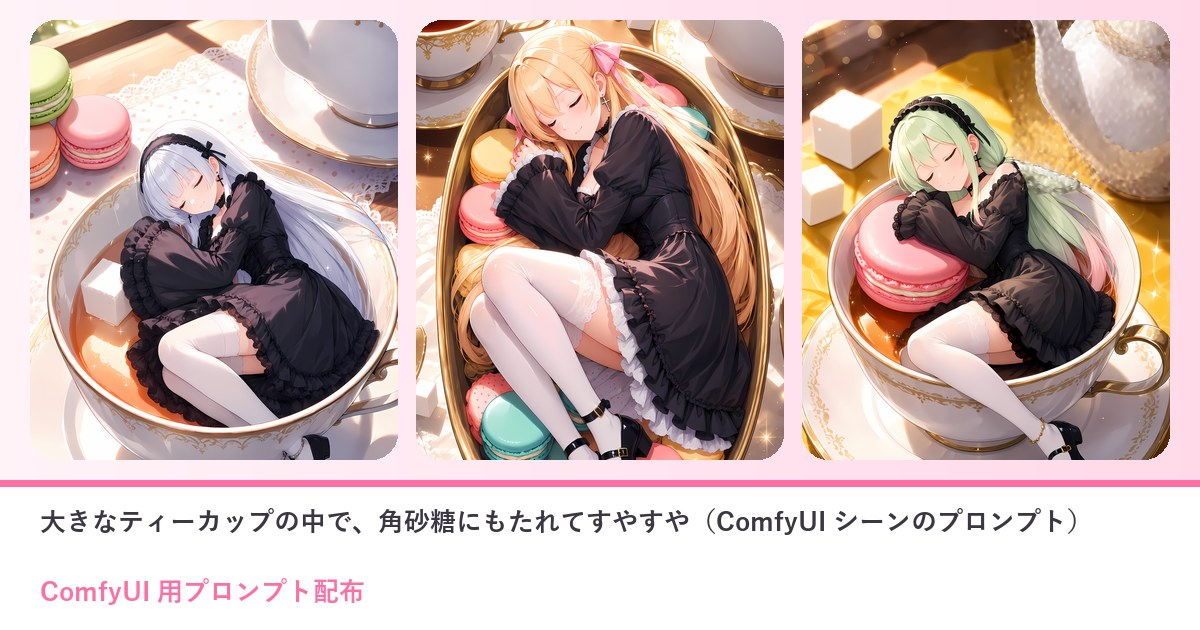
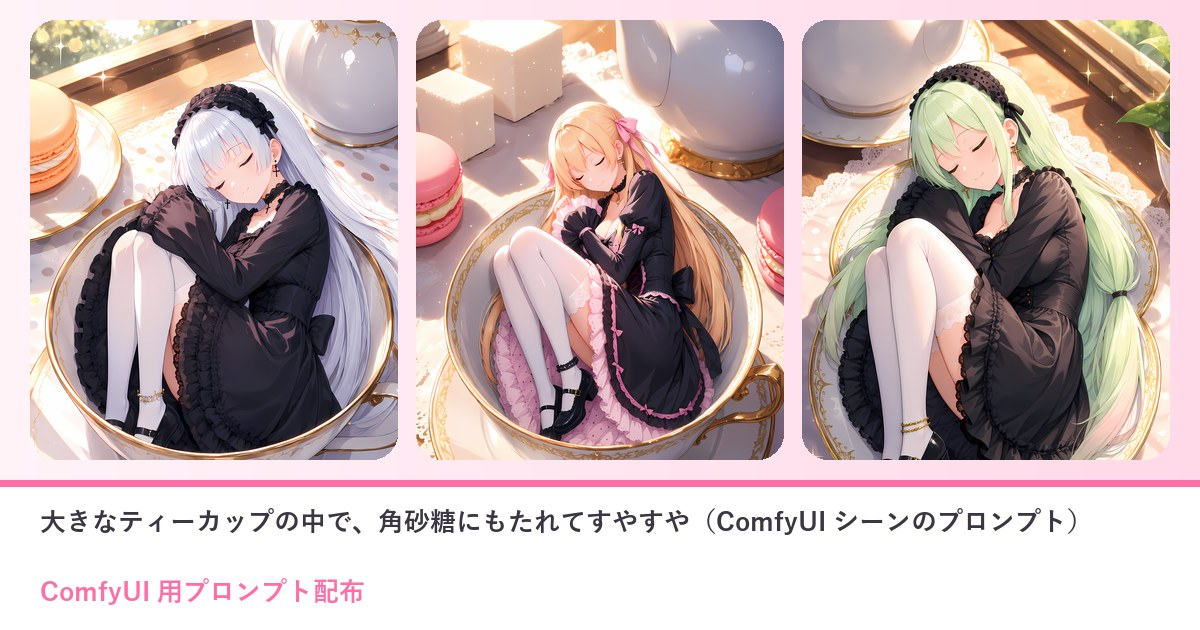
配布 10/19 眠り姫 ティーカップ：作例3人を焼き直し（足が器の外・カップの液体）・プロンプトに膝を抱える語と液体の NEG・文を絵に合わせる

diff --git a/prompts/2026-10-19-comfy-ppphnill.html b/prompts/2026-10-19-comfy-ppphnill.html
@@ -4,16 +4,16 @@
 <meta charset="UTF-8"><meta name="robots" content="noindex, nofollow, noarchive"><meta name="referrer" content="strict-origin">
 <meta name="viewport" content="width=device-width, initial-scale=1">
 <title>大きなティーカップの中で、角砂糖にもたれてすやすや（ComfyUI シーンのプロンプト）｜ひみつの眠り姫</title>
-<meta name="description" content="ComfyUI（Anima）に貼るだけで、ちいさな女の子のお茶会の一枚に。木もれ日のさすテーブルの上、大きなティーカップの中で、黒いフリルのゴシックロリータの女の子が横向きに丸くなって、角砂糖やマカロンにもたれてすやすや">
+<meta name="description" content="ComfyUI（Anima）に貼るだけで、ちいさな女の子のお茶会の一枚に。木もれ日のさすテーブルの上、からっぽの大きなティーカップの中で、黒いフリルのゴシックロリータの女の子が膝を抱えて丸くなり、すやすや眠っています。そ">
 <meta property="og:title" content="大きなティーカップの中で、角砂糖にもたれてすやすや（ComfyUI シーンのプロンプト）｜ひみつの眠り姫">
-<meta property="og:description" content="ComfyUI（Anima）に貼るだけで、ちいさな女の子のお茶会の一枚に。木もれ日のさすテーブルの上、大きなティーカップの中で、黒いフリルのゴシックロリータの女の子が横向きに丸くなって、角砂糖やマカロンにもたれてすやすや">
+<meta property="og:description" content="ComfyUI（Anima）に貼るだけで、ちいさな女の子のお茶会の一枚に。木もれ日のさすテーブルの上、からっぽの大きなティーカップの中で、黒いフリルのゴシックロリータの女の子が膝を抱えて丸くなり、すやすや眠っています。そ">
 <meta property="og:type" content="article">
 <meta property="og:url" content="https://himitsu-nemurihime.github.io/prompts/2026-10-19-comfy-ppphnill.html">
 <meta property="og:image" content="https://himitsu-nemurihime.github.io/prompts/img/2026-10-19-comfy-ppphnill/og.jpg">
 <meta property="og:image:width" content="1200"><meta property="og:image:height" content="630">
 <meta name="twitter:card" content="summary_large_image">
 <meta name="twitter:title" content="大きなティーカップの中で、角砂糖にもたれてすやすや（ComfyUI シーンのプロンプト）｜ひみつの眠り姫">
-<meta name="twitter:description" content="ComfyUI（Anima）に貼るだけで、ちいさな女の子のお茶会の一枚に。木もれ日のさすテーブルの上、大きなティーカップの中で、黒いフリルのゴシックロリータの女の子が横向きに丸くなって、角砂糖やマカロンにもたれてすやすや">
+<meta name="twitter:description" content="ComfyUI（Anima）に貼るだけで、ちいさな女の子のお茶会の一枚に。木もれ日のさすテーブルの上、からっぽの大きなティーカップの中で、黒いフリルのゴシックロリータの女の子が膝を抱えて丸くなり、すやすや眠っています。そ">
 <meta name="twitter:image" content="https://himitsu-nemurihime.github.io/prompts/img/2026-10-19-comfy-ppphnill/og.jpg">
 <meta name="theme-color" content="#FFF3F8">
 <link rel="preconnect" href="https://fonts.googleapis.com">
@@ -74,11 +74,11 @@
 <div class="sky"></div>
 <main class="wrap">
 <section class="sec"><div class="sec-head"><h2>大きなティーカップの中で、角砂糖にもたれてすやすや（ComfyUI シーンのプロンプト）</h2><p>ひみつの眠り姫のプロンプト配布</p></div>
-<div class="ps"><p><span class="ps-badge">ComfyUI 用</span><span class="ps-badge">2026-10-19</span></p><p class="ps-lead">ComfyUI（Anima）に貼るだけで、ちいさな女の子のお茶会の一枚に。木もれ日のさすテーブルの上、大きなティーカップの中で、黒いフリルのゴシックロリータの女の子が横向きに丸くなって、角砂糖やマカロンにもたれてすやすや眠っています。そばにはティーポットとマカロン。LoRA がない方は、いちばん上の行の髪の色と髪型を書き換えると、あなたの子に近づきます。</p><nav class="ps-toc" aria-label="目次"><p>📑 目次</p><ol><li><a href="#sec1">作例</a></li><li><a href="#sec2">3人のおしゃべり（ちいさくなってお茶会の器でおひるね）</a></li><li><a href="#sec3">使い方（3ステップ）</a></li><li><a href="#sec4">プロンプト</a></li><li><a href="#sec5">必要なもの（ComfyUI）</a></li><li><a href="#sec6">メモ</a></li><li><a href="#sec7">配布ルール</a></li></ol></nav><h2 id="sec1">作例</h2><div class="ps-ex"><figure><img src="img/2026-10-19-comfy-ppphnill/ex1.webp" alt="リリアの LoRA で焼いた作例（B のプロンプト）。白いレースのテーブルの上、紅茶の残るティーカップの中で、角砂糖のそばに丸くなってすやすや。黒いヘッドドレスと白いタイツ" loading="lazy"><figcaption>リリアの LoRA で焼いた作例（B のプロンプト）。白いレースのテーブルの上、紅茶の残るティーカップの中で、角砂糖のそばに丸くなってすやすや。黒いヘッドドレスと白いタイツ</figcaption></figure><figure><img src="img/2026-10-19-comfy-ppphnill/ex2.webp" alt="同じプロンプトをセフィリアの LoRA で。ティーカップではなく、マカロンを並べた楕円のお皿の中で、ピンクのリボンのまま丸くなっています（器は seed でお皿になることがあります）" loading="lazy"><figcaption>同じプロンプトをセフィリアの LoRA で。ティーカップではなく、マカロンを並べた楕円のお皿の中で、ピンクのリボンのまま丸くなっています（器は seed でお皿になることがあります）</figcaption></figure><figure><img src="img/2026-10-19-comfy-ppphnill/ex3.webp" alt="同じプロンプトをティルナの LoRA で。黄色いテーブルクロスの上のティーカップで、ピンクのマカロンを枕にしてにっこり眠っています" loading="lazy"><figcaption>同じプロンプトをティルナの LoRA で。黄色いテーブルクロスの上のティーカップで、ピンクのマカロンを枕にしてにっこり眠っています</figcaption></figure></div><p style="font-size:.82rem;color:var(--ps-ink)">※作例の画像の転載・保存しての再配布はご遠慮ください。</p><h2 id="sec2">3人のおしゃべり（ちいさくなってお茶会の器でおひるね）</h2><div class="ps-chat"><img src="img/2026-10-19-comfy-ppphnill/talk_tiru_surprised.webp" alt="ティルナ" loading="lazy"><div><div class="who">ティルナ</div><div class="bub">ふぁ……おはよ。あれ？ わたし、ちっちゃくなって、ティーカップの中で寝てた！</div></div></div><div class="ps-chat r"><img src="img/2026-10-19-comfy-ppphnill/talk_lilia_shy.webp" alt="リリア" loading="lazy"><div><div class="who">リリア</div><div class="bub">わたしもです。紅茶がまだ少しあたたかくて、角砂糖にもたれていたら、つい</div></div></div><div class="ps-chat r"><img src="img/2026-10-19-comfy-ppphnill/talk_sefi_sad.webp" alt="セフィリア" loading="lazy"><div><div class="who">セフィリア</div><div class="bub">おふたりとも、ずるいです。わたくしだけ、マカロンを並べたお皿の上でした</div></div></div><div class="ps-chat"><img src="img/2026-10-19-comfy-ppphnill/talk_tiru_happy.webp" alt="ティルナ" loading="lazy"><div><div class="who">ティルナ</div><div class="bub">えー、マカロンのベッドのほうがふかふかでいいじゃん。わたしはピンクのマカロンを枕にしてたよ</div></div></div><div class="ps-chat r"><img src="img/2026-10-19-comfy-ppphnill/talk_lilia_happy.webp" alt="リリア" loading="lazy"><div><div class="who">リリア</div><div class="bub">ふふ。今日の配布は、ちょうどこの夢です。大きなティーカップの中で、黒いドレスの女の子がすやすや眠る一枚</div></div></div><div class="ps-chat r"><img src="img/2026-10-19-comfy-ppphnill/talk_sefi_smug.webp" alt="セフィリア" loading="lazy"><div><div class="who">セフィリア</div><div class="bub">黒いフリルのドレスに白いタイツ、黒いストラップの靴。ちいさくなっても、身だしなみは完璧です</div></div></div><div class="ps-chat"><img src="img/2026-10-19-comfy-ppphnill/talk_tiru_laugh.webp" alt="ティルナ" loading="lazy"><div><div class="who">ティルナ</div><div class="bub">わたしのは黄色いテーブルクロスで、リリアのは白いレース。セフィーのはお皿いっぱいのマカロン！</div></div></div><div class="ps-chat r"><img src="img/2026-10-19-comfy-ppphnill/talk_lilia_thinking.webp" alt="リリア" loading="lazy"><div><div class="who">リリア</div><div class="bub">LoRA がない方は、いちばん上の行の髪と瞳の色を、あなたの子に合わせてくださいね</div></div></div><div class="ps-chat r"><img src="img/2026-10-19-comfy-ppphnill/talk_sefi_normal.webp" alt="セフィリア" loading="lazy"><div><div class="who">セフィリア</div><div class="bub">器はたいていティーカップですが、わたくしのようにお皿になることもあります。そのときは seed を変えてみてください</div></div></div><div class="ps-chat"><img src="img/2026-10-19-comfy-ppphnill/talk_tiru_wink.webp" alt="ティルナ" loading="lazy"><div><div class="who">ティルナ</div><div class="bub">手は袖の中に隠れるから、崩れにくいよ。寝顔はみんな、にっこりになるの</div></div></div><div class="ps-chat r"><img src="img/2026-10-19-comfy-ppphnill/talk_lilia_normal.webp" alt="リリア" loading="lazy"><div><div class="who">リリア</div><div class="bub">角砂糖や紅茶の量は、焼くたびに少しずつ変わります。いちばん甘そうな一枚を選ぶのも楽しいですよ</div></div></div><div class="ps-chat r"><img src="img/2026-10-19-comfy-ppphnill/talk_sefi_shy.webp" alt="セフィリア" loading="lazy"><div><div class="who">セフィリア</div><div class="bub">……わたくし、次はティーカップで寝てみたいです。リリア、少し詰めてくださいませ</div></div></div><div class="ps-chat"><img src="img/2026-10-19-comfy-ppphnill/talk_tiru_laugh.webp" alt="ティルナ" loading="lazy"><div><div class="who">ティルナ</div><div class="bub">じゃあ三人でひとつのカップ！ 紅茶があふれちゃうよー</div></div></div><div class="ps-chat r"><img src="img/2026-10-19-comfy-ppphnill/talk_lilia_happy.webp" alt="リリア" loading="lazy"><div><div class="who">リリア</div><div class="bub">では、角砂糖をもうひとつ入れて……おやすみなさい。甘い夢を</div></div></div><h2 id="sec3">使い方（3ステップ）</h2><ol class="ps-steps"><li>ComfyUI で Anima のモデルを読み、基本の画像生成（テキストから画像）の画面にする</li><li>下の A（LoRA なし）か B（LoRA あり）のポジティブと、ネガティブをワンタップでコピーして貼る</li><li>「推奨値」の大きさ・steps・CFG にして生成する（できれば 1.5 倍の hires fix も）</li></ol><h2 id="sec4">プロンプト</h2><div class="ps-note" style="margin-bottom:12px"><b>変えるのは1行目の色の付いたところだけ</b>（先頭の <code>1girl, solo</code> などはそのまま）<ul><li>使うプロンプトは2通り＝<b>A. LoRA を持っていない人</b>／<b>B. 自分のキャラの LoRA を持っている人</b>。どちらも丸ごとコピーして貼るだけ</li><li>A は<b>そのまま</b>でも綺麗な女の子で出ます。自分のキャラにするなら1行目の髪の色・髪型・目の色を書き換えるだけ</li><li>B は1行目の <code>your_lora_trigger</code> を自分の LoRA のトリガー語に置きかえるだけ（LoRA の強さは下の表）</li><li>2行目から下（シーン）と、ネガティブプロンプトは変えずにそのまま</li><li>🚫 版権キャラの名前・版権キャラの LoRA を入れて使うのは固く禁止です（下の「配布ルール」）</li></ul></div><h3 style="margin:14px 0 8px">A. LoRA を持っていない人（そのままでもOK）</h3><div class="ps-box"><button class="ps-copy" type="button" data-target="ps-prompt">📋 ワンタップでコピー</button><p style="margin:0 0 8px;font-size:.82rem;color:var(--ps-a)">ポジティブプロンプト</p><pre>1girl, solo, <mark class="ps-in" data-key="キャラの行">very long hair, white hair, blunt bangs, purple eyes</mark>
-masterpiece, best quality, score_7, safe, full body, from above, sleeping, closed eyes, smile, lying on side, in container, teacup, saucer, sugar cube, teapot, macaron, table, tablecloth, indoors, day, clear sky, sunlight, light particles, warm colors, depth of field, bokeh, minigirl, gothic lolita, black dress, frilled dress, long skirt, collar, polka dot, long sleeves, sleeves past fingers, lace trim, satin, hairband, cross earrings, choker, white thighhighs, thighhighs, anklet, mary janes, sparkle</pre><textarea class="ps-copyarea" id="ps-prompt" readonly aria-hidden="true" tabindex="-1">1girl, solo, very long hair, white hair, blunt bangs, purple eyes
-masterpiece, best quality, score_7, safe, full body, from above, sleeping, closed eyes, smile, lying on side, in container, teacup, saucer, sugar cube, teapot, macaron, table, tablecloth, indoors, day, clear sky, sunlight, light particles, warm colors, depth of field, bokeh, minigirl, gothic lolita, black dress, frilled dress, long skirt, collar, polka dot, long sleeves, sleeves past fingers, lace trim, satin, hairband, cross earrings, choker, white thighhighs, thighhighs, anklet, mary janes, sparkle</textarea></div><h3 style="margin:18px 0 8px">B. 自分のキャラの LoRA を持っている人</h3><div class="ps-box"><button class="ps-copy" type="button" data-target="ps-prompt-lora">📋 ワンタップでコピー</button><p style="margin:0 0 8px;font-size:.82rem;color:var(--ps-a)">ポジティブプロンプト（LoRA 用）</p><pre>masterpiece, best quality, score_7, year 2025, highres, absurdres, <mark class="ps-in" data-key="キャラの行">your_lora_trigger</mark>, 1girl, solo,
-full body, from above, sleeping, closed eyes, smile, lying on side, in container, teacup, saucer, sugar cube, teapot, macaron, table, tablecloth, indoors, day, clear sky, sunlight, light particles, warm colors, depth of field, bokeh, minigirl, gothic lolita, black dress, frilled dress, long skirt, collar, polka dot, long sleeves, sleeves past fingers, lace trim, satin, hairband, cross earrings, choker, white thighhighs, thighhighs, anklet, mary janes, sparkle</pre><textarea class="ps-copyarea" id="ps-prompt-lora" readonly aria-hidden="true" tabindex="-1">masterpiece, best quality, score_7, year 2025, highres, absurdres, your_lora_trigger, 1girl, solo,
-full body, from above, sleeping, closed eyes, smile, lying on side, in container, teacup, saucer, sugar cube, teapot, macaron, table, tablecloth, indoors, day, clear sky, sunlight, light particles, warm colors, depth of field, bokeh, minigirl, gothic lolita, black dress, frilled dress, long skirt, collar, polka dot, long sleeves, sleeves past fingers, lace trim, satin, hairband, cross earrings, choker, white thighhighs, thighhighs, anklet, mary janes, sparkle</textarea></div><table class="ps-vars" style="margin-top:10px"><tr><th>LoRA のつなぎ方</th><td colspan="2">Load Diffusion Model（Anima）のうしろに LoraLoaderModelOnly を1つ足す（CLIP にはつながない）</td></tr><tr><th>LoRA の強さ（strength_model）</th><td colspan="2">0.8〜0.9（作例は 0.85）</td></tr><tr><th>1行目</th><td colspan="2">your_lora_trigger を自分の LoRA のトリガー語に置きかえる（髪や目の色は LoRA が覚えているので書かなくてOK）</td></tr></table><div style="height:12px"></div><div class="ps-box"><button class="ps-copy" type="button" data-target="ps-negative-lora">📋 ワンタップでコピー</button><p style="margin:0 0 8px;font-size:.82rem;color:var(--ps-a)">ネガティブプロンプト（B 用）</p><pre>lowres, bad quality, worst quality, score_1, score_2, score_3, poorly drawn, flat color, sketch, jpeg artifacts, mutated, ugly, disfigured, long body, bad anatomy, bad hands, missing fingers, extra fingers, simple background, transparent background, blurry, furry, child, loli, chibi, baby face, signature, watermark, artist name, username, web address, patreon username, logo, detailed pupils, sparkling eyes, twinkling eyes, glowing pupils, glowing eyes, star-shaped pupils, colored highlight in pupil, blonde hair, pink hair, cat ears, animal ears, red eyes, tall, long legs, wide hips, thick thighs, curvy, voluptuous, amazonian, statuesque, 8 heads tall, elongated body, extra fingers, missing fingers, fused fingers, bad hands, deformed hands, japanese text, chinese text, korean text, kanji, hiragana, katakana, calligraphy</pre><textarea class="ps-copyarea" id="ps-negative-lora" readonly aria-hidden="true" tabindex="-1">lowres, bad quality, worst quality, score_1, score_2, score_3, poorly drawn, flat color, sketch, jpeg artifacts, mutated, ugly, disfigured, long body, bad anatomy, bad hands, missing fingers, extra fingers, simple background, transparent background, blurry, furry, child, loli, chibi, baby face, signature, watermark, artist name, username, web address, patreon username, logo, detailed pupils, sparkling eyes, twinkling eyes, glowing pupils, glowing eyes, star-shaped pupils, colored highlight in pupil, blonde hair, pink hair, cat ears, animal ears, red eyes, tall, long legs, wide hips, thick thighs, curvy, voluptuous, amazonian, statuesque, 8 heads tall, elongated body, extra fingers, missing fingers, fused fingers, bad hands, deformed hands, japanese text, chinese text, korean text, kanji, hiragana, katakana, calligraphy</textarea></div><div class="ps-note" style="margin-top:10px"><b>作例の絵（ポストの絵）は、この B のポジティブとネガティブで作りました</b>（<code>your_lora_trigger</code> のところに、その子の LoRA のトリガー語と見た目の語を入れただけ・語の順番もこのまま）。そのあと手だけを描き直す仕上げと 4K への拡大をしています。<br>ネガティブの「blonde hair、pink hair、cat ears、animal ears、red eyes、tall、long legs、wide hips、thick thighs、curvy、voluptuous、amazonian、statuesque、8 heads tall、elongated body」は作例の子のために足した語です。自分のキャラに合わなければ消してOK。</div><div style="height:12px"></div><div class="ps-box"><button class="ps-copy" type="button" data-target="ps-negative">📋 ワンタップでコピー</button><p style="margin:0 0 8px;font-size:.82rem;color:var(--ps-a)">ネガティブプロンプト（A 用）</p><pre>worst quality, low quality, lowres, bad anatomy, bad hands, extra fingers, missing fingers, fused fingers, blurry, jpeg artifacts, text, watermark, signature, logo, extra person, multiple girls, cropped, out of frame, extra fingers, missing fingers, fused fingers, bad hands, deformed hands, japanese text, chinese text, korean text, kanji, hiragana, katakana, calligraphy</pre><textarea class="ps-copyarea" id="ps-negative" readonly aria-hidden="true" tabindex="-1">worst quality, low quality, lowres, bad anatomy, bad hands, extra fingers, missing fingers, fused fingers, blurry, jpeg artifacts, text, watermark, signature, logo, extra person, multiple girls, cropped, out of frame, extra fingers, missing fingers, fused fingers, bad hands, deformed hands, japanese text, chinese text, korean text, kanji, hiragana, katakana, calligraphy</textarea></div><h2 id="sec5">必要なもの（ComfyUI）</h2><div class="ps-note">🧩 <b>カスタムノードは使っていません</b>。LoRA が無くても大丈夫（A のプロンプト）。ComfyUI の基本の画像生成（テキストから画像）に、ポジティブ・ネガティブを貼って、下の推奨値にするだけです。LoRA を使う人は「LoraLoaderModelOnly」を1つ足すだけ（B のプロンプト）。</div><table class="ps-vars" style="margin-top:12px"><tr><th>モデル</th><th>ファイル</th><th>置き場</th></tr><tr><td>Anima 系のモデル（本体）</td><td>お好きな Anima 系のモデル</td><td><code>models/diffusion_models</code></td></tr><tr><td>テキストエンコーダ</td><td>Anima と一緒に配られているもの</td><td><code>models/text_encoders</code></td></tr><tr><td>VAE</td><td>Anima と一緒に配られているもの</td><td><code>models/vae</code></td></tr></table><h2>推奨値</h2><table class="ps-vars"><tr><th>大きさ</th><td colspan="2">864×1536（864×1536（縦長））</td></tr><tr><th>steps</th><td colspan="2">30</td></tr><tr><th>CFG</th><td colspan="2">4.5</td></tr><tr><th>sampler</th><td colspan="2">er_sde</td></tr><tr><th>scheduler</th><td colspan="2">beta</td></tr><tr><th>hires fix（任意）</th><td colspan="2">1.5 倍に拡大して denoise 0.4・同じ steps と CFG（試し焼きはこれ）</td></tr><tr><th>LoRA</th><td colspan="2">無くてOK（A のプロンプト）。自分のキャラの LoRA があれば B のプロンプトで</td></tr></table><h2 id="sec6">メモ</h2><ul class="ps-rules"><li>いちばん上の行（髪の色・長さ・髪型・目の色）だけ、あなたの子に合わせて書き換えてください。2行目から下（服・器・光）は変えなくて大丈夫です。</li><li>縦長（864×1536）で、上から見下ろした全身の構図です。器の中で横向きに丸くなって眠る形になります。</li><li>器はたいていティーカップですが、seed によってはマカロンのお皿になることがあります。カップにしたいときは seed を変えてください。</li><li>手は長い袖に隠れる形です（手の崩れが出にくい）。枕になるのは角砂糖のときとマカロンのときがあります。</li><li>試し焼き（LoRA なし）でも、ティーカップ・紅茶・マカロン・ティーポット・黒いフリルのドレスがちゃんと入りました。髪はいちばん上の行どおりの色です。</li></ul><h2 id="sec7">配布ルール</h2><ul class="ps-rules"><li>⭕ プロンプトの改変は自由です。</li><li>⭕ 生成した画像は SNS に投稿して大丈夫です。</li><li>❌ プロンプト文そのものの転載・再配布・販売はしないでください。</li><li>❌ 自作のプロンプトだと名乗ることはやめてください。</li><li>❌ このページの作例画像の無断転載はしないでください。</li><li class="ps-rights">🚫 <b>アニメ・漫画・ゲームなどの版権キャラクター（著作権・商標のあるキャラ）、他の人のキャラクターやイラスト、実在の人物の写真を添付画像にして使うことは固く禁止します。</b>版権キャラの名前や、版権キャラの LoRA を入れて使うことも禁止です。</li><li>✅ 添付してよいのは、<b>自分で作ったキャラクター・自分が権利を持つ画像</b>（または権利者から使ってよいと言われた画像）だけです。</li><li>⚠ 生成した画像の使い方（投稿・公開など）は、使った人の責任でお願いします。権利の問題が起きても、配布者は責任を負えません。</li><li>💌 使ったら <b>#眠り姫プロンプト</b> を付けて見せてくれたら、とても嬉しいです（任意です）。</li></ul><p class="ps-bn-ask" style="margin:22px 0 0;font-size:.92rem">📚 これまでの配布プロンプト（バックナンバー）が見たい方は、直接ひみつの眠り姫までお気軽にお問い合わせください。</p></div>
+<div class="ps"><p><span class="ps-badge">ComfyUI 用</span><span class="ps-badge">2026-10-19</span></p><p class="ps-lead">ComfyUI（Anima）に貼るだけで、ちいさな女の子のお茶会の一枚に。木もれ日のさすテーブルの上、からっぽの大きなティーカップの中で、黒いフリルのゴシックロリータの女の子が膝を抱えて丸くなり、すやすや眠っています。そばには角砂糖とマカロン、ティーポット。LoRA がない方は、いちばん上の行の髪の色と髪型を書き換えると、あなたの子に近づきます。</p><nav class="ps-toc" aria-label="目次"><p>📑 目次</p><ol><li><a href="#sec1">作例</a></li><li><a href="#sec2">3人のおしゃべり（ちいさくなってお茶会の器でおひるね）</a></li><li><a href="#sec3">使い方（3ステップ）</a></li><li><a href="#sec4">プロンプト</a></li><li><a href="#sec5">必要なもの（ComfyUI）</a></li><li><a href="#sec6">メモ</a></li><li><a href="#sec7">配布ルール</a></li></ol></nav><h2 id="sec1">作例</h2><div class="ps-ex"><figure><img src="img/2026-10-19-comfy-ppphnill/ex1.webp" alt="リリアの LoRA で焼いた作例（B のプロンプト）。水玉のレースのテーブルの上、からっぽのティーカップの中で、膝を抱えて丸くなってすやすや。黒いヘッドドレスと白いタイツ、足首に金のアンクレット" loading="lazy"><figcaption>リリアの LoRA で焼いた作例（B のプロンプト）。水玉のレースのテーブルの上、からっぽのティーカップの中で、膝を抱えて丸くなってすやすや。黒いヘッドドレスと白いタイツ、足首に金のアンクレット</figcaption></figure><figure><img src="img/2026-10-19-comfy-ppphnill/ex2.webp" alt="同じプロンプトをセフィリアの LoRA で。からっぽのティーカップの中で、ピンクのフリルにくるまって丸くなり、ピンクのリボンのまますやすや" loading="lazy"><figcaption>同じプロンプトをセフィリアの LoRA で。からっぽのティーカップの中で、ピンクのフリルにくるまって丸くなり、ピンクのリボンのまますやすや</figcaption></figure><figure><img src="img/2026-10-19-comfy-ppphnill/ex3.webp" alt="同じプロンプトをティルナの LoRA で。ティーカップではなく金の縁のお皿の上で、ティーポットのそばに丸くなって眠っています（器は seed でお皿になることがあります）" loading="lazy"><figcaption>同じプロンプトをティルナの LoRA で。ティーカップではなく金の縁のお皿の上で、ティーポットのそばに丸くなって眠っています（器は seed でお皿になることがあります）</figcaption></figure></div><p style="font-size:.82rem;color:var(--ps-ink)">※作例の画像の転載・保存しての再配布はご遠慮ください。</p><h2 id="sec2">3人のおしゃべり（ちいさくなってお茶会の器でおひるね）</h2><div class="ps-chat"><img src="img/2026-10-19-comfy-ppphnill/talk_tiru_surprised.webp" alt="ティルナ" loading="lazy"><div><div class="who">ティルナ</div><div class="bub">ふぁ……おはよ。あれ？ わたし、ちっちゃくなって、ティーカップの……じゃなくて、お皿の上で寝てた！</div></div></div><div class="ps-chat r"><img src="img/2026-10-19-comfy-ppphnill/talk_lilia_shy.webp" alt="リリア" loading="lazy"><div><div class="who">リリア</div><div class="bub">わたしはカップの中でした。からっぽのカップがほんのりあたたかくて、膝を抱えて丸くなっていたら、つい</div></div></div><div class="ps-chat r"><img src="img/2026-10-19-comfy-ppphnill/talk_sefi_happy.webp" alt="セフィリア" loading="lazy"><div><div class="who">セフィリア</div><div class="bub">わたくしもカップです。ピンクのフリルがクッションになって、とても寝心地がよかったです</div></div></div><div class="ps-chat"><img src="img/2026-10-19-comfy-ppphnill/talk_tiru_happy.webp" alt="ティルナ" loading="lazy"><div><div class="who">ティルナ</div><div class="bub">えー、ふたりともずるい！ でもお皿も広くて、レースのクロスがふかふかだったよ</div></div></div><div class="ps-chat r"><img src="img/2026-10-19-comfy-ppphnill/talk_lilia_happy.webp" alt="リリア" loading="lazy"><div><div class="who">リリア</div><div class="bub">ふふ。今日の配布は、ちょうどこの夢です。大きなティーカップの中で、黒いドレスの女の子がすやすや眠る一枚</div></div></div><div class="ps-chat r"><img src="img/2026-10-19-comfy-ppphnill/talk_sefi_smug.webp" alt="セフィリア" loading="lazy"><div><div class="who">セフィリア</div><div class="bub">黒いフリルのドレスに白いタイツ、黒いストラップの靴。ちいさくなっても、身だしなみは完璧です</div></div></div><div class="ps-chat"><img src="img/2026-10-19-comfy-ppphnill/talk_tiru_laugh.webp" alt="ティルナ" loading="lazy"><div><div class="who">ティルナ</div><div class="bub">リリアのは水玉のクロス、セフィーのはピンクのマカロンに囲まれて、わたしのはティーポットのおとなり！</div></div></div><div class="ps-chat r"><img src="img/2026-10-19-comfy-ppphnill/talk_lilia_thinking.webp" alt="リリア" loading="lazy"><div><div class="who">リリア</div><div class="bub">LoRA がない方は、いちばん上の行の髪と瞳の色を、あなたの子に合わせてくださいね</div></div></div><div class="ps-chat r"><img src="img/2026-10-19-comfy-ppphnill/talk_sefi_normal.webp" alt="セフィリア" loading="lazy"><div><div class="who">セフィリア</div><div class="bub">器はたいていティーカップですが、ティルナのようにお皿になることもあります。そのときは seed を変えてみてください</div></div></div><div class="ps-chat"><img src="img/2026-10-19-comfy-ppphnill/talk_tiru_wink.webp" alt="ティルナ" loading="lazy"><div><div class="who">ティルナ</div><div class="bub">手は袖の中に隠れるから、崩れにくいよ。寝顔はみんな、にっこりになるの</div></div></div><div class="ps-chat r"><img src="img/2026-10-19-comfy-ppphnill/talk_lilia_normal.webp" alt="リリア" loading="lazy"><div><div class="who">リリア</div><div class="bub">角砂糖やマカロンの置き場所は、焼くたびに少しずつ変わります。いちばん甘そうな一枚を選ぶのも楽しいですよ</div></div></div><div class="ps-chat r"><img src="img/2026-10-19-comfy-ppphnill/talk_sefi_shy.webp" alt="セフィリア" loading="lazy"><div><div class="who">セフィリア</div><div class="bub">……ティルナ、次はわたくしのカップへどうぞ。少し詰めますから</div></div></div><div class="ps-chat"><img src="img/2026-10-19-comfy-ppphnill/talk_tiru_laugh.webp" alt="ティルナ" loading="lazy"><div><div class="who">ティルナ</div><div class="bub">じゃあ三人でひとつのカップ！ ぎゅうぎゅうでくっついて寝ちゃおー</div></div></div><div class="ps-chat r"><img src="img/2026-10-19-comfy-ppphnill/talk_lilia_happy.webp" alt="リリア" loading="lazy"><div><div class="who">リリア</div><div class="bub">では、角砂糖をもうひとつ枕にして……おやすみなさい。甘い夢を</div></div></div><h2 id="sec3">使い方（3ステップ）</h2><ol class="ps-steps"><li>ComfyUI で Anima のモデルを読み、基本の画像生成（テキストから画像）の画面にする</li><li>下の A（LoRA なし）か B（LoRA あり）のポジティブと、ネガティブをワンタップでコピーして貼る</li><li>「推奨値」の大きさ・steps・CFG にして生成する（できれば 1.5 倍の hires fix も）</li></ol><h2 id="sec4">プロンプト</h2><div class="ps-note" style="margin-bottom:12px"><b>変えるのは1行目の色の付いたところだけ</b>（先頭の <code>1girl, solo</code> などはそのまま）<ul><li>使うプロンプトは2通り＝<b>A. LoRA を持っていない人</b>／<b>B. 自分のキャラの LoRA を持っている人</b>。どちらも丸ごとコピーして貼るだけ</li><li>A は<b>そのまま</b>でも綺麗な女の子で出ます。自分のキャラにするなら1行目の髪の色・髪型・目の色を書き換えるだけ</li><li>B は1行目の <code>your_lora_trigger</code> を自分の LoRA のトリガー語に置きかえるだけ（LoRA の強さは下の表）</li><li>2行目から下（シーン）と、ネガティブプロンプトは変えずにそのまま</li><li>🚫 版権キャラの名前・版権キャラの LoRA を入れて使うのは固く禁止です（下の「配布ルール」）</li></ul></div><h3 style="margin:14px 0 8px">A. LoRA を持っていない人（そのままでもOK）</h3><div class="ps-box"><button class="ps-copy" type="button" data-target="ps-prompt">📋 ワンタップでコピー</button><p style="margin:0 0 8px;font-size:.82rem;color:var(--ps-a)">ポジティブプロンプト</p><pre>1girl, solo, <mark class="ps-in" data-key="キャラの行">very long hair, white hair, blunt bangs, purple eyes</mark>
+masterpiece, best quality, score_7, safe, full body, from above, sleeping, closed eyes, smile, lying on side, fetal position, knees to chest, in container, teacup, saucer, sugar cube, teapot, macaron, table, tablecloth, indoors, day, clear sky, sunlight, light particles, warm colors, depth of field, bokeh, minigirl, gothic lolita, black dress, frilled dress, long skirt, collar, polka dot, long sleeves, sleeves past fingers, lace trim, satin, hairband, cross earrings, choker, white thighhighs, thighhighs, anklet, mary janes, sparkle</pre><textarea class="ps-copyarea" id="ps-prompt" readonly aria-hidden="true" tabindex="-1">1girl, solo, very long hair, white hair, blunt bangs, purple eyes
+masterpiece, best quality, score_7, safe, full body, from above, sleeping, closed eyes, smile, lying on side, fetal position, knees to chest, in container, teacup, saucer, sugar cube, teapot, macaron, table, tablecloth, indoors, day, clear sky, sunlight, light particles, warm colors, depth of field, bokeh, minigirl, gothic lolita, black dress, frilled dress, long skirt, collar, polka dot, long sleeves, sleeves past fingers, lace trim, satin, hairband, cross earrings, choker, white thighhighs, thighhighs, anklet, mary janes, sparkle</textarea></div><h3 style="margin:18px 0 8px">B. 自分のキャラの LoRA を持っている人</h3><div class="ps-box"><button class="ps-copy" type="button" data-target="ps-prompt-lora">📋 ワンタップでコピー</button><p style="margin:0 0 8px;font-size:.82rem;color:var(--ps-a)">ポジティブプロンプト（LoRA 用）</p><pre>masterpiece, best quality, score_7, year 2025, highres, absurdres, <mark class="ps-in" data-key="キャラの行">your_lora_trigger</mark>, 1girl, solo,
+full body, from above, sleeping, closed eyes, smile, lying on side, fetal position, knees to chest, in container, teacup, saucer, sugar cube, teapot, macaron, table, tablecloth, indoors, day, clear sky, sunlight, light particles, warm colors, depth of field, bokeh, minigirl, gothic lolita, black dress, frilled dress, long skirt, collar, polka dot, long sleeves, sleeves past fingers, lace trim, satin, hairband, cross earrings, choker, white thighhighs, thighhighs, anklet, mary janes, sparkle</pre><textarea class="ps-copyarea" id="ps-prompt-lora" readonly aria-hidden="true" tabindex="-1">masterpiece, best quality, score_7, year 2025, highres, absurdres, your_lora_trigger, 1girl, solo,
+full body, from above, sleeping, closed eyes, smile, lying on side, fetal position, knees to chest, in container, teacup, saucer, sugar cube, teapot, macaron, table, tablecloth, indoors, day, clear sky, sunlight, light particles, warm colors, depth of field, bokeh, minigirl, gothic lolita, black dress, frilled dress, long skirt, collar, polka dot, long sleeves, sleeves past fingers, lace trim, satin, hairband, cross earrings, choker, white thighhighs, thighhighs, anklet, mary janes, sparkle</textarea></div><table class="ps-vars" style="margin-top:10px"><tr><th>LoRA のつなぎ方</th><td colspan="2">Load Diffusion Model（Anima）のうしろに LoraLoaderModelOnly を1つ足す（CLIP にはつながない）</td></tr><tr><th>LoRA の強さ（strength_model）</th><td colspan="2">0.8〜0.9（作例は 0.85）</td></tr><tr><th>1行目</th><td colspan="2">your_lora_trigger を自分の LoRA のトリガー語に置きかえる（髪や目の色は LoRA が覚えているので書かなくてOK）</td></tr></table><div style="height:12px"></div><div class="ps-box"><button class="ps-copy" type="button" data-target="ps-negative-lora">📋 ワンタップでコピー</button><p style="margin:0 0 8px;font-size:.82rem;color:var(--ps-a)">ネガティブプロンプト（B 用）</p><pre>lowres, bad quality, worst quality, score_1, score_2, score_3, poorly drawn, flat color, sketch, jpeg artifacts, mutated, ugly, disfigured, long body, bad anatomy, bad hands, missing fingers, extra fingers, simple background, transparent background, blurry, furry, child, loli, chibi, baby face, signature, watermark, artist name, username, web address, patreon username, logo, detailed pupils, sparkling eyes, twinkling eyes, glowing pupils, glowing eyes, star-shaped pupils, colored highlight in pupil, blonde hair, pink hair, cat ears, animal ears, red eyes, tall, long legs, wide hips, thick thighs, curvy, voluptuous, amazonian, statuesque, 8 heads tall, elongated body, extra fingers, missing fingers, fused fingers, bad hands, deformed hands, liquid, tea, coffee, drink, water, steam, soup, japanese text, chinese text, korean text, kanji, hiragana, katakana, calligraphy</pre><textarea class="ps-copyarea" id="ps-negative-lora" readonly aria-hidden="true" tabindex="-1">lowres, bad quality, worst quality, score_1, score_2, score_3, poorly drawn, flat color, sketch, jpeg artifacts, mutated, ugly, disfigured, long body, bad anatomy, bad hands, missing fingers, extra fingers, simple background, transparent background, blurry, furry, child, loli, chibi, baby face, signature, watermark, artist name, username, web address, patreon username, logo, detailed pupils, sparkling eyes, twinkling eyes, glowing pupils, glowing eyes, star-shaped pupils, colored highlight in pupil, blonde hair, pink hair, cat ears, animal ears, red eyes, tall, long legs, wide hips, thick thighs, curvy, voluptuous, amazonian, statuesque, 8 heads tall, elongated body, extra fingers, missing fingers, fused fingers, bad hands, deformed hands, liquid, tea, coffee, drink, water, steam, soup, japanese text, chinese text, korean text, kanji, hiragana, katakana, calligraphy</textarea></div><div class="ps-note" style="margin-top:10px"><b>作例の絵（ポストの絵）は、この B のポジティブとネガティブで作りました</b>（<code>your_lora_trigger</code> のところに、その子の LoRA のトリガー語と見た目の語を入れただけ・語の順番もこのまま）。そのあと手だけを描き直す仕上げと 4K への拡大をしています。<br>ネガティブの「blonde hair、pink hair、cat ears、animal ears、red eyes、tall、long legs、wide hips、thick thighs、curvy、voluptuous、amazonian、statuesque、8 heads tall、elongated body」は作例の子のために足した語です。自分のキャラに合わなければ消してOK。</div><div style="height:12px"></div><div class="ps-box"><button class="ps-copy" type="button" data-target="ps-negative">📋 ワンタップでコピー</button><p style="margin:0 0 8px;font-size:.82rem;color:var(--ps-a)">ネガティブプロンプト（A 用）</p><pre>worst quality, low quality, lowres, bad anatomy, bad hands, extra fingers, missing fingers, fused fingers, blurry, jpeg artifacts, text, watermark, signature, logo, extra person, multiple girls, cropped, out of frame, extra fingers, missing fingers, fused fingers, bad hands, deformed hands, liquid, tea, coffee, drink, water, steam, soup, japanese text, chinese text, korean text, kanji, hiragana, katakana, calligraphy</pre><textarea class="ps-copyarea" id="ps-negative" readonly aria-hidden="true" tabindex="-1">worst quality, low quality, lowres, bad anatomy, bad hands, extra fingers, missing fingers, fused fingers, blurry, jpeg artifacts, text, watermark, signature, logo, extra person, multiple girls, cropped, out of frame, extra fingers, missing fingers, fused fingers, bad hands, deformed hands, liquid, tea, coffee, drink, water, steam, soup, japanese text, chinese text, korean text, kanji, hiragana, katakana, calligraphy</textarea></div><h2 id="sec5">必要なもの（ComfyUI）</h2><div class="ps-note">🧩 <b>カスタムノードは使っていません</b>。LoRA が無くても大丈夫（A のプロンプト）。ComfyUI の基本の画像生成（テキストから画像）に、ポジティブ・ネガティブを貼って、下の推奨値にするだけです。LoRA を使う人は「LoraLoaderModelOnly」を1つ足すだけ（B のプロンプト）。</div><table class="ps-vars" style="margin-top:12px"><tr><th>モデル</th><th>ファイル</th><th>置き場</th></tr><tr><td>Anima 系のモデル（本体）</td><td>お好きな Anima 系のモデル</td><td><code>models/diffusion_models</code></td></tr><tr><td>テキストエンコーダ</td><td>Anima と一緒に配られているもの</td><td><code>models/text_encoders</code></td></tr><tr><td>VAE</td><td>Anima と一緒に配られているもの</td><td><code>models/vae</code></td></tr></table><h2>推奨値</h2><table class="ps-vars"><tr><th>大きさ</th><td colspan="2">864×1536（864×1536（縦長））</td></tr><tr><th>steps</th><td colspan="2">30</td></tr><tr><th>CFG</th><td colspan="2">4.5</td></tr><tr><th>sampler</th><td colspan="2">er_sde</td></tr><tr><th>scheduler</th><td colspan="2">beta</td></tr><tr><th>hires fix（任意）</th><td colspan="2">1.5 倍に拡大して denoise 0.4・同じ steps と CFG（試し焼きはこれ）</td></tr><tr><th>LoRA</th><td colspan="2">無くてOK（A のプロンプト）。自分のキャラの LoRA があれば B のプロンプトで</td></tr></table><h2 id="sec6">メモ</h2><ul class="ps-rules"><li>いちばん上の行（髪の色・長さ・髪型・目の色）だけ、あなたの子に合わせて書き換えてください。2行目から下（服・器・光）は変えなくて大丈夫です。</li><li>縦長（864×1536）で、上から見下ろした全身の構図です。器の中で膝を抱えて丸くなって眠る形になります（足が器からはみ出しにくい）。</li><li>器はたいていティーカップですが、seed によってはマカロンのお皿になることがあります。カップにしたいときは seed を変えてください。</li><li>手は長い袖に隠れる形です（手の崩れが出にくい）。枕になるのは角砂糖のときとマカロンのときがあります。</li><li>試し焼き（LoRA なし）でも、ティーカップ・マカロン・ティーポット・黒いフリルのドレスが入り、器の中に液体は出ませんでした。器がマカロンを敷いたお皿になる seed や、靴の先が器のふちにかかる seed もあるので、気になったら seed を変えてください。髪はいちばん上の行どおりの色です。</li></ul><h2 id="sec7">配布ルール</h2><ul class="ps-rules"><li>⭕ プロンプトの改変は自由です。</li><li>⭕ 生成した画像は SNS に投稿して大丈夫です。</li><li>❌ プロンプト文そのものの転載・再配布・販売はしないでください。</li><li>❌ 自作のプロンプトだと名乗ることはやめてください。</li><li>❌ このページの作例画像の無断転載はしないでください。</li><li class="ps-rights">🚫 <b>アニメ・漫画・ゲームなどの版権キャラクター（著作権・商標のあるキャラ）、他の人のキャラクターやイラスト、実在の人物の写真を添付画像にして使うことは固く禁止します。</b>版権キャラの名前や、版権キャラの LoRA を入れて使うことも禁止です。</li><li>✅ 添付してよいのは、<b>自分で作ったキャラクター・自分が権利を持つ画像</b>（または権利者から使ってよいと言われた画像）だけです。</li><li>⚠ 生成した画像の使い方（投稿・公開など）は、使った人の責任でお願いします。権利の問題が起きても、配布者は責任を負えません。</li><li>💌 使ったら <b>#眠り姫プロンプト</b> を付けて見せてくれたら、とても嬉しいです（任意です）。</li></ul><p class="ps-bn-ask" style="margin:22px 0 0;font-size:.92rem">📚 これまでの配布プロンプト（バックナンバー）が見たい方は、直接ひみつの眠り姫までお気軽にお問い合わせください。</p></div>
 <p style="text-align:center;margin:34px 0 0"><a class="gate-btn ghost" href="../index.html" style="color:var(--ink-dim);border-color:var(--line)">部屋に戻る</a></p>
 </section>
 <p id="ps-views" hidden style="text-align:center;font-size:12px;opacity:.55;margin:22px 0 6px"></p>
